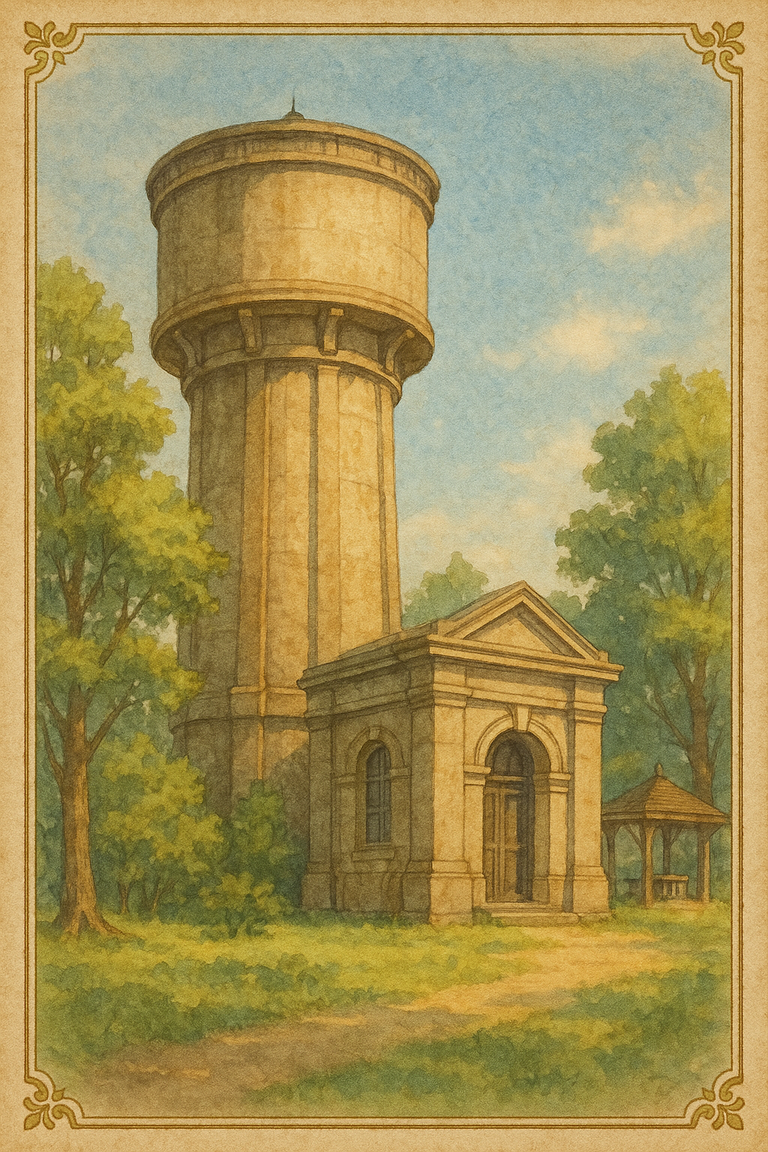
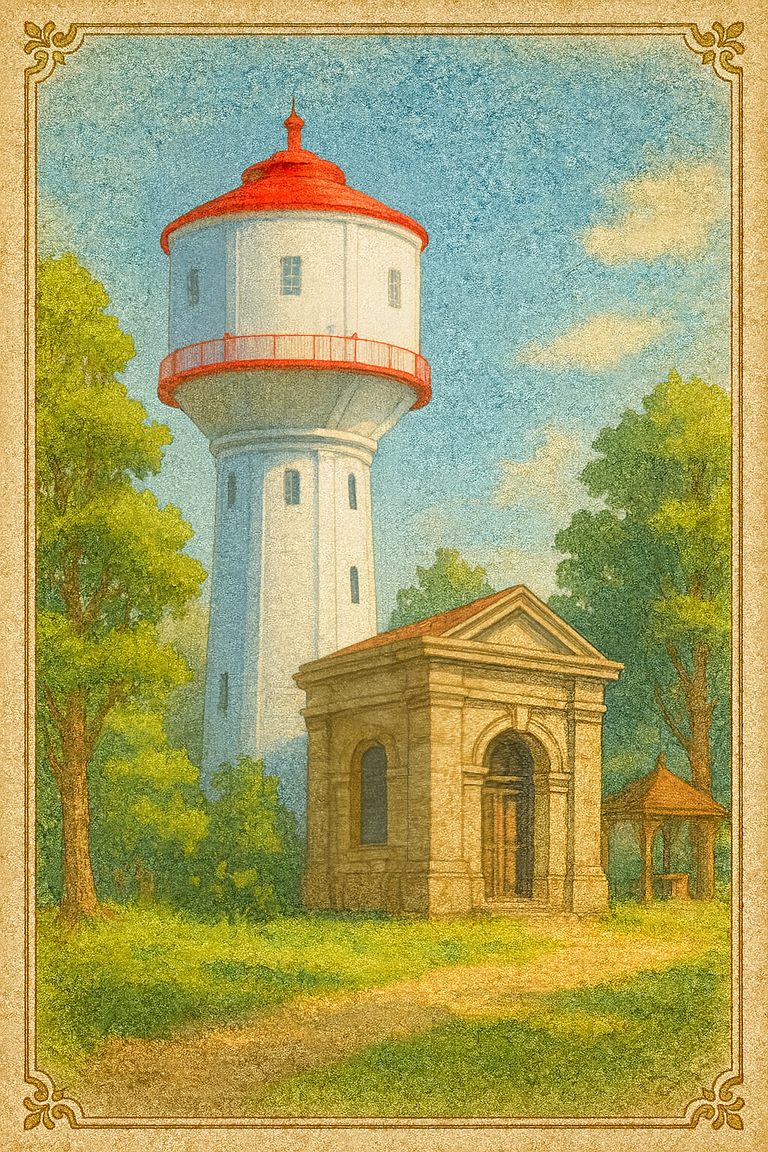
水道タンクカードを色味調整版に差し替え（白×赤屋根）＋sw v34
masaのCodex再生成版（実物に近い白い塔＋赤い屋根/手すり）をDriveから再取り込み。通常＋豪華版。

diff --git a/sw.js b/sw.js
@@ -13,7 +13,7 @@
  */
 "use strict";
 
-var CACHE_VERSION = "v33";
+var CACHE_VERSION = "v34";
 var CACHE_NAME = "nagaoka-tanken-" + CACHE_VERSION;
 
 // SW自身の場所を基準に相対パスで解決（GitHub Pagesのサブパス配下でも正しく動くように）